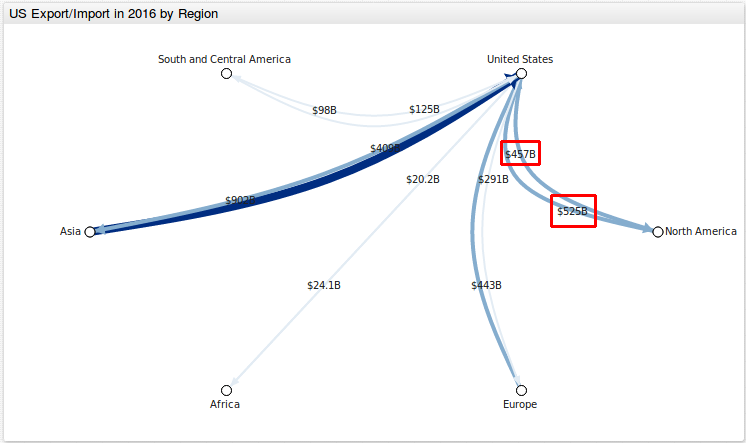
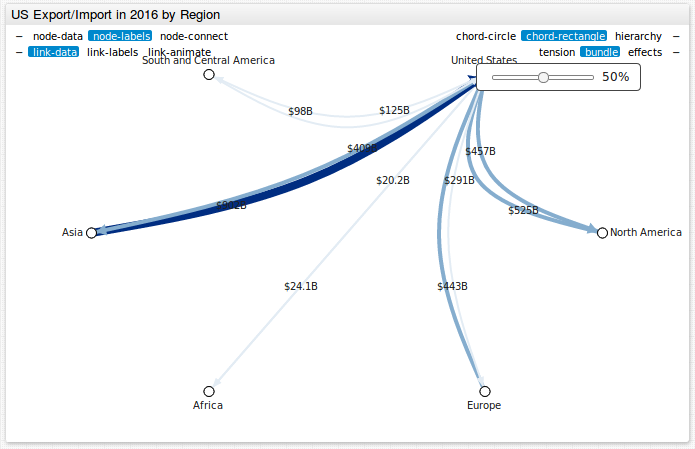
us-international-trade

diff --git a/USInternationalTrade/README.md b/USInternationalTrade/README.md
@@ -3,9 +3,7 @@
 Analyzing America's International Trade History
 ===============================================
 
-Buy American. Drive American. Wear American.
-
-The American economy seems to be on everybody's minds these days, namely returning jobs and money sent overseas back to the American people. Many voters in the 2016 U.S. presidental election 
+Buy American. Drive American. Wear American. The American economy seems to be on everybody's minds these days, namely returning jobs and money sent overseas back to the American people. Many voters in the 2016 U.S. presidental election 
 desired to return to a time where America was producing more than it was taking in. According to an article on [forbes.com](http://www.forbes.com/sites/mikepatton/2016/02/29/u-s-role-in-global-economy-declines-nearly-50/#3e2283ea59c1),
 the United States represented **40%** of the world's GDP in **1960**. By 2014, that number had dropped to only **20%**. According to [CNN](http://money.cnn.com/2016/03/29/news/economy/us-manufacturing-jobs/), since 2000 the U.S. has lost over 5 
 million manufacturing jobs. Additionally, the percentage of Americans employed in manufacturing dropped from **19%** in 1980 to **8%** in 2016. How did things change so drastically
@@ -13,7 +11,7 @@ for America? Is there any chance of going back and recapturing the economic pros
 over time, and what impact has that had on the country's economy? In this article we will analyze a dataset from [census.gov](https://www.census.gov) looking at 
 [America's trade balance](https://www.census.gov/foreign-trade/balance/country.xlsx) from 1985 through the present time. This research article illustrates how 
 publicly available data from census.gov can be easily loaded into the non-relational [Axibase Time Series Database (ATSD)](http://axibase.com/products/axibase-time-series-database/) 
-for interactive analysis and graphical representation of raw data collected by government and private organizations. The article provides both sample queries and charts, 
+for interactive analysis and graphical representation of raw data collected by government organizations. The article provides both sample queries and charts, 
 as well as instructions on how to install your own ATSD instance and populate it with the raw data. 
 
 ### America's Trade Balance Dataset
@@ -21,8 +19,9 @@ as well as instructions on how to install your own ATSD instance and populate it
 
 Let's take a look at dataset looking at America's trade balance from [census.gov](https://www.census.gov/).  
 
-This dataset can be found here: https://www.census.gov/foreign-trade/balance/index.html. Click on the link labeled **Download the full dataset for all countries (Excel - 5 MB)**.
-You are only given the option of downloading this dataset as an [Excel file (5 MB)](https://www.census.gov/foreign-trade/balance/country.xlsx).
+This dataset can be found here: https://www.census.gov/foreign-trade/balance/index.html. 
+
+Click on the link labeled **Download the full dataset for all countries (Excel - 5 MB)**. You are only given the option of downloading this dataset as an [Excel file (5 MB)](https://www.census.gov/foreign-trade/balance/country.xlsx).
 
 This dataset contains import and export statistics collected monthly from 1985 to the present time for the United States and 259 locations. These locations include countries,
 continents (such as Europe and Asia), political organizations (such as the European Union), as well as various other organizations (such as [OPEC](https://en.wikipedia.org/wiki/OPEC)). 
@@ -49,7 +48,7 @@ You can explore this portal by clicking the button below:
 [![](Images/button.png)](https://apps.axibase.com/chartlab/53e42403)
 
 In addition to looking at graphical outputs, we can also perform [SQL queries](https://github.com/axibase/atsd-docs/blob/master/api/sql/README.md#overview), which can be used 
-to search for specific information contained in this dataset. For example, how did 2016 look for trade balance (in billions USD) to regions of the world as a whole: 
+to search for specific information contained in this dataset. For example, how did 2016 look for the United States for trade balance (in billions USD) with regions of the world as a whole: 
 
 ```sql
 SELECT e.tags.ctyname AS region,
@@ -119,8 +118,8 @@ Trade balance (in billions USD) from 1997.
 
 To addition to tables output from SQL queries, we can display these relationships in Chart Lab graphs. Below are images for U.S. trade export and import numbers with South and
 Central America, Asia, Africa, Europe, adn North America for 2016, 2006, and 1997. Lines are drawn going from (exports) and coming back to (imports) the U.S. The heavier the lines
-are between the U.S. and the respective continent, the greater the dollar amount in trade. We can see that in the first image, in 2016 exports from the U.S. to North America totalled
-**$457 billion**, while imports from North America into the US totalled **$525 Billion**. Additionally, we can see that the heaviest lines in all three images were between
+are between the U.S. and the respective continent, the greater the dollar amount in trade. We can see that, from the first image, 2016 exports from the U.S. to North America totalled
+**$457 billion**, while imports from North America into the US totalled **$525 Billion**, resulting in a trade balance of **-$68 Billion**. Additionally, we can see that the heaviest lines in all three images were between
 the U.S. and Asia, indicating that these two have the highest trade volume between them. 
 
 ![Figure 2](Images/Figure2.png)
@@ -178,7 +177,7 @@ GROUP BY e.period(1 year), e.tags
 ### A Closer Look at the Recent History of America's International Trade
 ------------------------------------------------------------------------
 
-Has the U.S. always had a negative trade balance? If not, where did things change? Below are images showing import, export, and trade balance values between the U.S. and two of it's
+Has the U.S. always had a negative international trade balance? If not, where did things change? Below are images showing import, export, and trade balance values between the U.S. and two of it's
 three largest trading partners: China and Mexico. The top image in each figure showing exports (in blue) over imports (in pink). The lower figure shows the trade balance,
 which is the dollar amount for exports minus imports. 
 
@@ -278,12 +277,12 @@ Below is figure showing the US balance of trade going back to 1950.
 
 ![Figure 9](Images/Figure9.png)
 
-We can see that up until 1976, the United States had a trade balance of virtually zero, that is the total amount imported equalled the total exported. Things, however, quickly began
-to change. According the [Forbes](http://www.forbes.com/sites/mikepatton/2016/02/29/u-s-role-in-global-economy-declines-nearly-50/#11502f7059c1), "America was flush with cash and companies were rapidly evolving, all of which caught the eye of the federal government. Washington saw this significant revenue 
+We can see that up until 1976, the United States had a trade balance of virtually zero, that is the total amount imported equalled the total amount exported. Things, however, quickly began
+to change. According the [Forbes](http://www.forbes.com/sites/mikepatton/2016/02/29/u-s-role-in-global-economy-declines-nearly-50/#11502f7059c1), at that time "America was flush with cash and companies were rapidly evolving, all of which caught the eye of the federal government. Washington saw this significant revenue 
 source and increased business regulations and taxes to such an extent that it began to choke the very goose that laid the golden eggs." As the U.S. increased regulations on business,
-more and more companies moved their operations overseas. From 1978 to 2002, [manufacturing jobs in China](https://pdfs.semanticscholar.org/0fc1/91833dca5c728ddfe2fdd6c4f97680a05442.pdf) grew by offically by**30 million**, with
+more and more companies moved their operations overseas. From 1978 to 2002, [manufacturing jobs in China](https://pdfs.semanticscholar.org/0fc1/91833dca5c728ddfe2fdd6c4f97680a05442.pdf) grew by offically by **30 million**, with
 unofficial estimates putting that number at greater than **50 million**. The rise of developing economies and tightening of U.S. regulations seems to have led to the U.S. having such
-an uneven trade balance. While a even trade balance make not be everything that makes an economy hum, it is certainly a place to start looking when retooling a broken economy.  
+an uneven trade balance. While a even trade balance make not be everything that makes an economy hum, it is certainly a place to start looking when retooling a broken trading system.  
 
 ### Action Items
 ----------------
@@ -291,14 +290,14 @@ an uneven trade balance. While a even trade balance make not be everything that 
 Below are the summarized steps to follow to install local configurations of ATSD and Axibase Collector and create SQL queries for analyzing America's trade balance statistics:
 
 1. Install [Docker](https://docs.docker.com/engine/installation/linux/ubuntulinux/).
-2. [Install the ATSD database](/atsd-docs/blob/master/installation/docker.md#option-2-configure-collector-account-manually) on in your local Docker configuration. 
+2. [Install the ATSD database](https://github.com/axibase/atsd-docs/blob/master/installation/docker.md#option-2-configure-collector-account-manually) on in your local Docker configuration. 
 3. Save the [Excel file](https://www.census.gov/foreign-trade/balance/country.xlsx) in CSV format.
 4. Import and upload `us-trade-ie-csv-parser.xml` file into ATSD.
 5. Import the Excel file saved in `.csv` format into ATSD.
 6. Import the `us-trade-balance-2016`, `us-trade-balance-rank-2016`, `world-gdp`, and `world-population` replacement tables into ATSD.
 7. Navigate to the SQL tab in ATSD and begin writing your queries!
 
-Check out our file on the describing our schema based parser used for this dataset [here](USInternationalTrade/resources/csv-parser-schema-explanation.md).
+Check out our file on the describing our schema based parser used for this dataset [here](https://github.com/axibase/atsd-use-cases/blob/master/USInternationalTrade/resources/csv-parser-schema-explanation.md).
 
 If you require assistance in installing this software or have any questions, please feel free to [contact us](https://axibase.com/feedback/) and we would be happy to be of assistance!
 
@@ -438,7 +437,7 @@ GROUP BY e.period(1 year), e.tags
   LIMIT 20
 ```
       
-```sql      
+```ls     
 | year  | country       | code  | export    | import    | trade_balance | 
 |-------|---------------|-------|-----------|-----------|---------------| 
 | 2016  | China         | 5700  | 104149.1  | 423431.2  | -319282.1     | 
